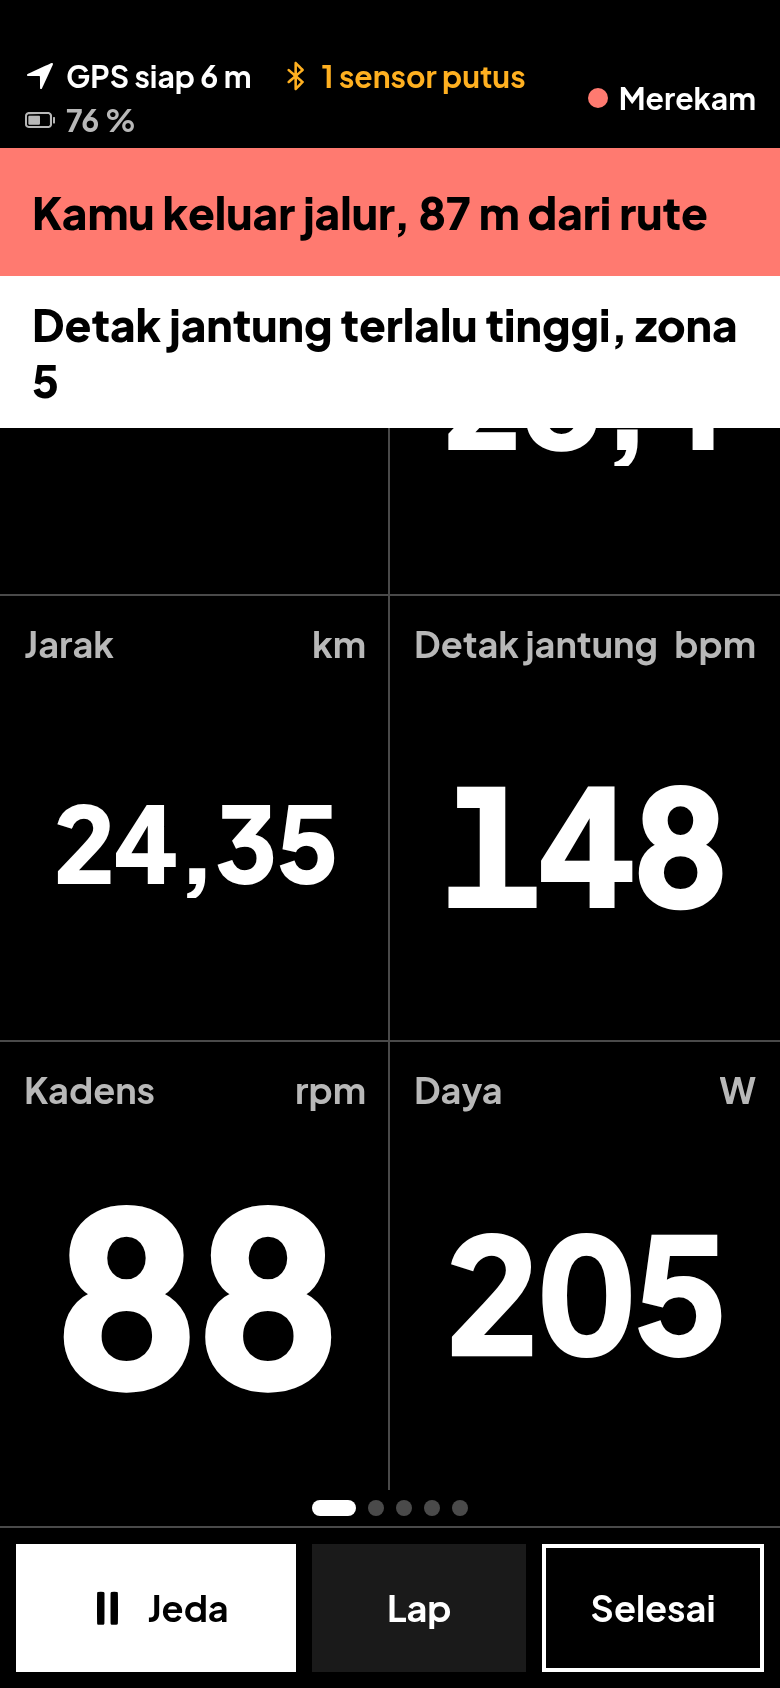
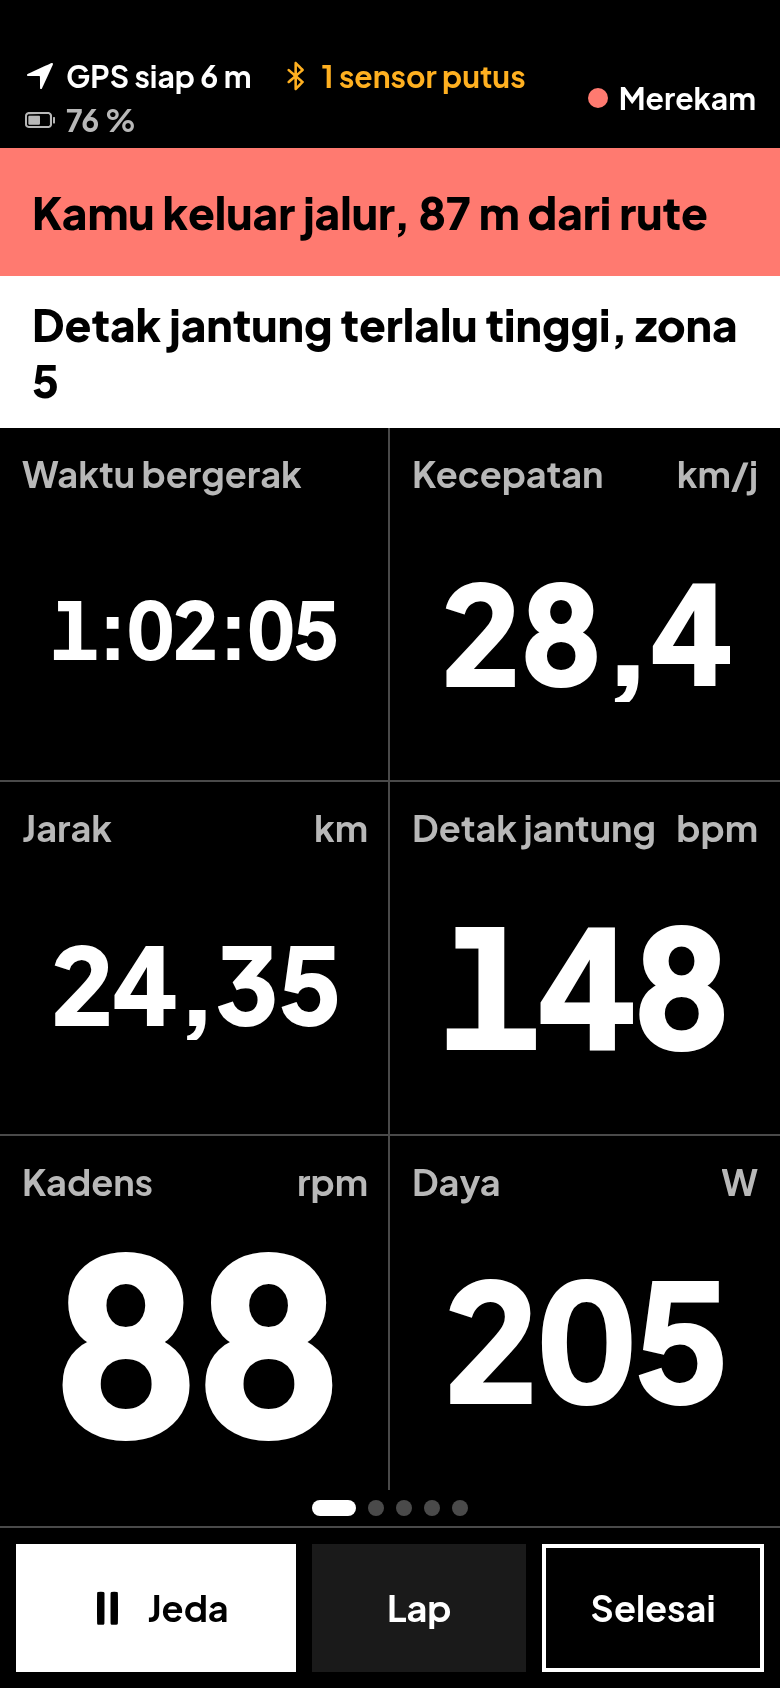
Bike computer: alerts push the data grid down instead of covering it (8 s auto-dismiss, 20 s for urgent, tap to dismiss, off-course stays), healthSync test restores the real prefsSync module

diff --git a/src/features/bikecomputer/ui/RideFrame.tsx b/src/features/bikecomputer/ui/RideFrame.tsx
@@ -65,6 +65,13 @@ export function RideFrame({ palette, landscape, insets, status, pages, renderPag
     <View onTouchStart={onTouch} style={[styles.root, { backgroundColor: palette.background }, landscape && styles.rootRow]}>
       <View style={[styles.main, { paddingTop: insets.top, paddingBottom: landscape ? insets.bottom : 0 }, side]}>
         <StatusStrip palette={palette} {...status} />
+        {/* In the flow, above the pages: an alert shrinks the data grid, it never covers a number. */}
+        {offCourseText !== null || alert ? (
+          <View>
+            {offCourseText !== null ? <AlertBanner text={offCourseText} tone="danger" palette={palette} /> : null}
+            {alert ? <AlertBanner key={alert.key} text={alert.text} tone={alert.tone} palette={palette} onDismiss={alert.onDismiss} /> : null}
+          </View>
+        ) : null}
         <View style={styles.pager} onLayout={onLayout}>
           {pager.width > 0 ? (
             <FlatList
@@ -84,12 +91,6 @@ export function RideFrame({ palette, landscape, insets, status, pages, renderPag
                 <View style={{ width: pager.width, height: pager.height }}>{renderPage(item, Math.abs(index - current) <= 1, pager.width)}</View>
               )}
             />
-          ) : null}
-          {offCourseText !== null || alert ? (
-            <View style={styles.banners} pointerEvents="box-none">
-              {offCourseText !== null ? <AlertBanner text={offCourseText} tone="danger" palette={palette} /> : null}
-              {alert ? <AlertBanner key={alert.key} text={alert.text} tone={alert.tone} palette={palette} onDismiss={alert.onDismiss} /> : null}
-            </View>
           ) : null}
         </View>
         {pages.length > 1 ? (
@@ -115,7 +116,6 @@ const styles = StyleSheet.create({
   rootRow: { flexDirection: 'row' },
   main: { flex: 1 },
   pager: { flex: 1 },
-  banners: { position: 'absolute', top: 0, left: 0, right: 0 },
   dots: { height: 18, flexDirection: 'row', alignItems: 'center', justifyContent: 'center', gap: 6 },
   dot: { width: 8, height: 8, borderRadius: 4 },
   dotOn: { width: 22 },

diff --git a/src/cloud/healthSync.test.ts b/src/cloud/healthSync.test.ts
@@ -1,7 +1,8 @@
 import { Database } from 'bun:sqlite';
-import { beforeEach, describe, expect, it, mock } from 'bun:test';
+import { afterAll, beforeEach, describe, expect, it, mock } from 'bun:test';
 import type { SQLiteDatabase } from 'expo-sqlite';
 
+import * as prefsSyncModule from '@/cloud/prefsSync';
 import { createHealthAdapters, countDirtyHealth, scanHealth, setCycleGate, type HealthOptions } from '@/cloud/healthRecords';
 import { forgetHealthRestore, restoreWindow, type FetchRestorePage, type RestoreOptions, type RestorePage, type RestoreTable } from '@/cloud/healthRestore';
 import { runSync } from '@/cloud/syncEngine';
@@ -622,6 +623,9 @@ describe('pending count and scan cost', () => {
 });
 
 // ---------------------------------------------------------------------------------------------------------------------
+// A copy of the real module, taken before the mock below replaces it for every test file that loads later.
+const realPrefsSync = { ...prefsSyncModule };
+
 // the public wrapper
 
 // The wrapper imports the app's HTTP client and KV store, which only exist once mocked: the mocks must be in place
@@ -650,7 +654,11 @@ describe('healthSync wrapper', () => {
     },
   }));
   mock.module('@/cloud/rogo', () => ({ rogoCall: async (_path: string, input: unknown) => void wipes.push(input) }));
-  mock.module('@/cloud/prefsSync', () => ({ notePrefChanged: async (key: string) => void noted.push(key) }));
+  mock.module('@/cloud/prefsSync', () => ({ ...realPrefsSync, notePrefChanged: async (key: string) => void noted.push(key) }));
+  // A module mock outlives the file that made it: put the real module back for `prefsSync.test.ts` and any file that loads later.
+  afterAll(() => {
+    mock.module('@/cloud/prefsSync', () => realPrefsSync);
+  });
 
   it('cycle sync is on by default; setCycleSync flips the KV, notes the pref and wipes the cloud kinds', async () => {
     const { cycleSyncEnabled, setCycleSync } = await import('@/cloud/healthSync');

diff --git a/src/features/bikecomputer/BikeRideProvider.tsx b/src/features/bikecomputer/BikeRideProvider.tsx
@@ -16,12 +16,15 @@ import { clearAlertNotification, presentAlert } from './alertPresenter';
 import { hasLiveConsent, liveTracker } from './live/liveConfig';
 import { elevationStrip } from './nav';
 import { BikeSession, type BikeSnapshot } from './session';
+import { alertPriority } from './ride/alerts';
 import { recordRideDrain } from './ride/batteryStore';
 import { SAVER_IDLE, saverAccept, saverDismiss, saverStep, type SaverState } from './ride/saver';
 import { bikeSettingsStore, chosenRoute } from './settings';
 import type { RideAlert } from './types';
 
-const ALERT_SHOWN_MS = 6000;
+/** How long an alert banner stays when the rider does not tap it: information and warnings, then the ones that must be seen. */
+const ALERT_SHOWN_MS = 8000;
+const URGENT_ALERT_SHOWN_MS = 20_000;
 const BATTERY_POLL_MS = 30_000;
 const STRIP_BINS = 120;
 const MAP_LINE_POINTS = 1500;
@@ -172,7 +175,8 @@ export function BikeRideProvider({ children }: { children: ReactNode }) {
   // A banner stays for a few seconds.
   useEffect(() => {
     if (!alert) return;
-    const timer = setTimeout(() => setAlert((current) => (current === alert ? null : current)), ALERT_SHOWN_MS);
+    const shownMs = alertPriority(alert.kind) === 'urgent' ? URGENT_ALERT_SHOWN_MS : ALERT_SHOWN_MS;
+    const timer = setTimeout(() => setAlert((current) => (current === alert ? null : current)), shownMs);
     return () => clearTimeout(timer);
   }, [alert]);
 
